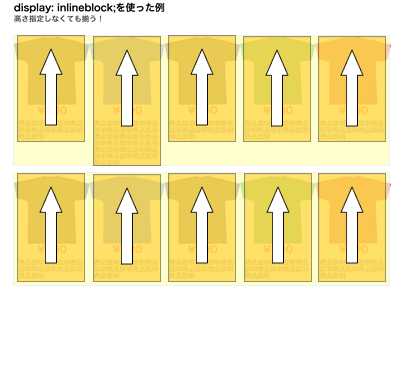
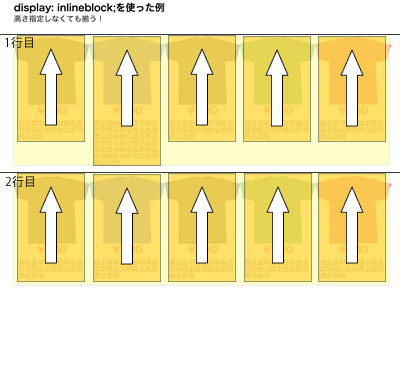
inline-block修正

Changed region(s): [[0.0, 0.0871, 0.09, 0.1451], [0.0, 0.4644, 0.09, 0.4934]]

diff --git a/slide/index.html b/slide/index.html
@@ -408,7 +408,7 @@
       <p>描画イメージはこんな感じ。</p>
       <img src="../img/inline-block2.png" height="379" width="400">
       <p>上で揃えるために、<span style="color: red;">vertical-align:top;</span>にしておく必要がある。</p>
-      <p>この手法だと「行」でレイアウトしていることになる。6つ目からは右に行けないから改行しているイメージ。<br></p>
+      <p>このinline-blockの手法だと「行」のブロックでレイアウトしていることになる。2つの行ブロック<br>6つ目からは右に行けないから改行して、2行目から描画するイメージ。<br></p>
     </section>
 
     <section class="slide" id="inline-block3">
